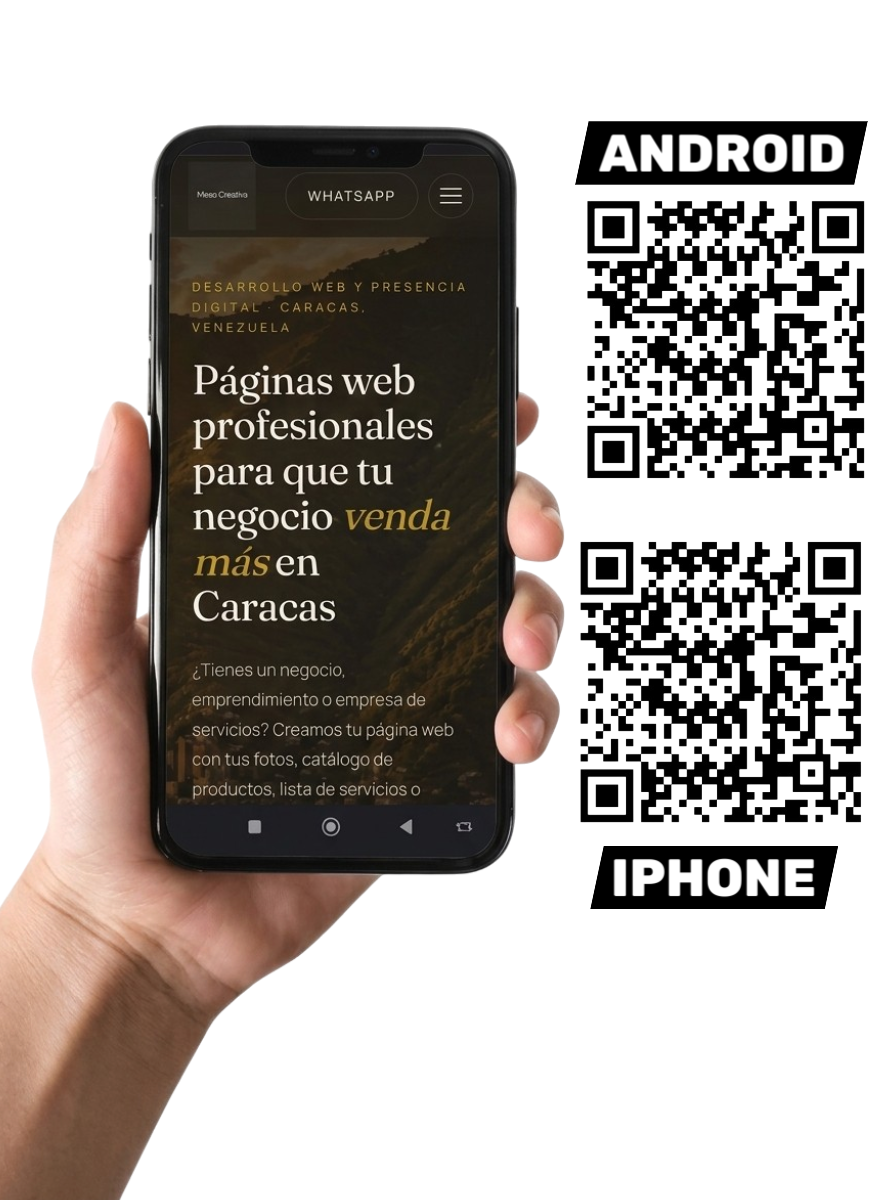
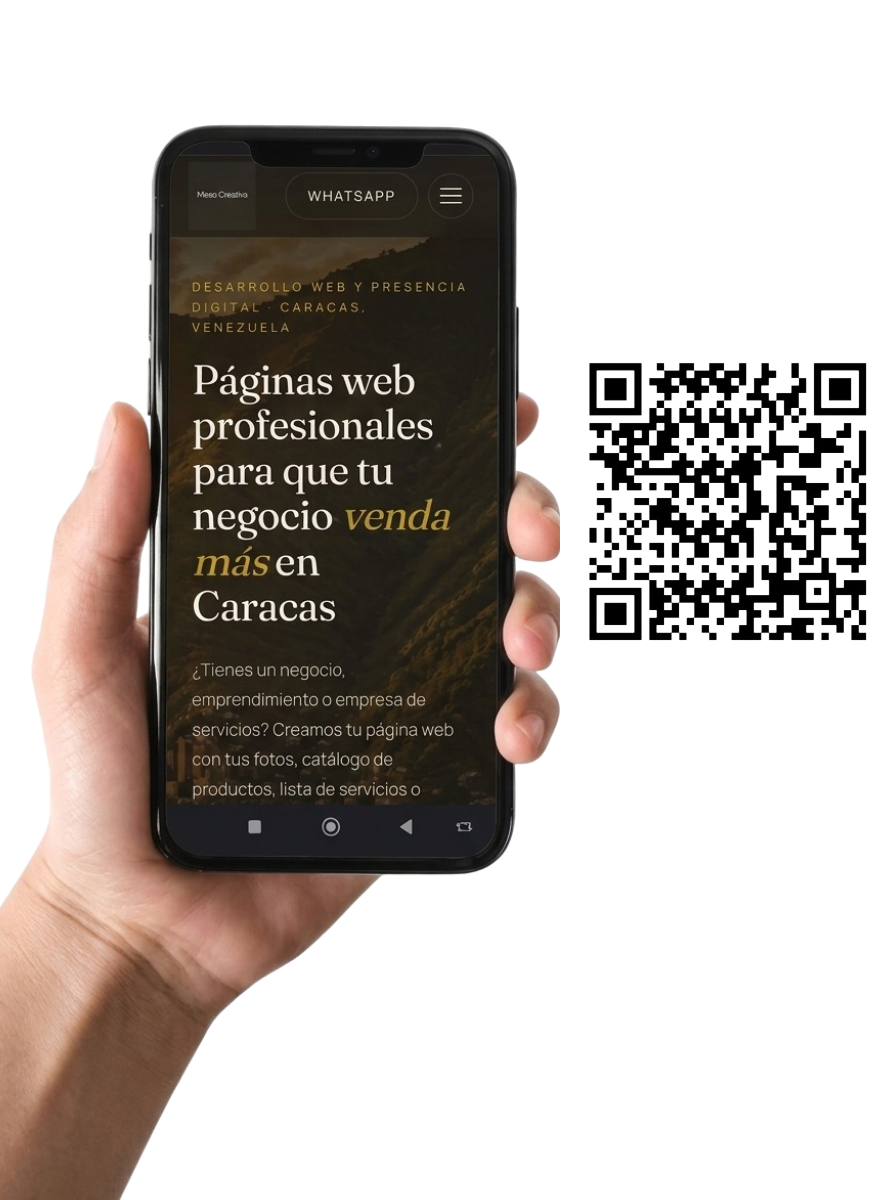
Un solo código QR centrado a la mitad del móvil

Changed region(s): [[0.625, 0.0925, 0.9688, 0.7708]]

diff --git a/public/mesa-creativa.html b/public/mesa-creativa.html
@@ -349,7 +349,7 @@ footer{padding:56px 0 120px;border-top:1px solid var(--line)}
       </div>
     </div>
     <figure class="rv" style="margin:48px 0 0 calc(50% - 50vw);text-align:center;width:min(620px,92vw)">
-      <img src="/media/movil-qr.png" alt="Móvil mostrando la web junto a códigos QR para Android e iPhone" loading="lazy" style="width:100%;height:auto;display:block;margin:0">
+      <img src="/media/movil-qr.png" alt="Móvil mostrando la web junto a un código QR" loading="lazy" style="width:100%;height:auto;display:block;margin:0">
       <figcaption class="lead" style="position:relative;margin:-26% 0 0 32%;width:62%;text-align:center;font-size:1.05rem;line-height:1.5">Creamos un código QR personalizado<br>para que tus clientes accedan fácilmente<br>a la información de tu negocio.</figcaption>
     </figure>
   </div>
